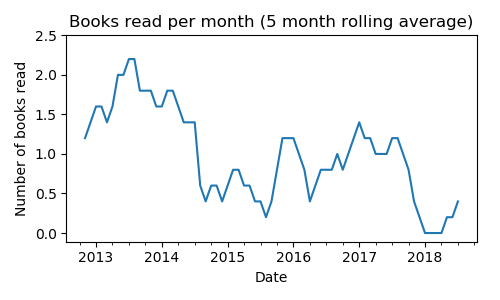
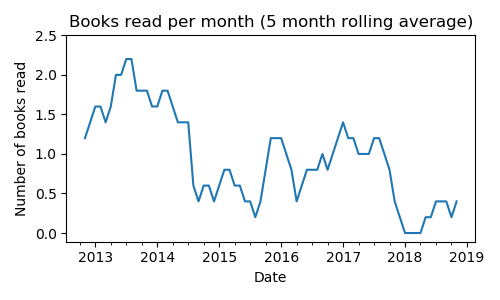
Dune

diff --git a/README.md b/README.md
@@ -3,13 +3,16 @@
 I started this log on October 30th, 2012. I list all books I read.
 
 ### Statistics
-Total number of books read: 72  
-Books per month: 0.99 (2012/9 to 2018/9)
+Total number of books read: 73  
+Books per month: 0.95 (2012/9 to 2019/1)
 
 ![Books recorded by year](book_recorded.png)
 ![Books read per month](book_read.png)
 
 ### List of books
+*Dune*, Frank Herbert  
+Finished: 2019.01.05
+
 *Yquem*, Richard Olney  
 Finished: 2018.09.21
 
